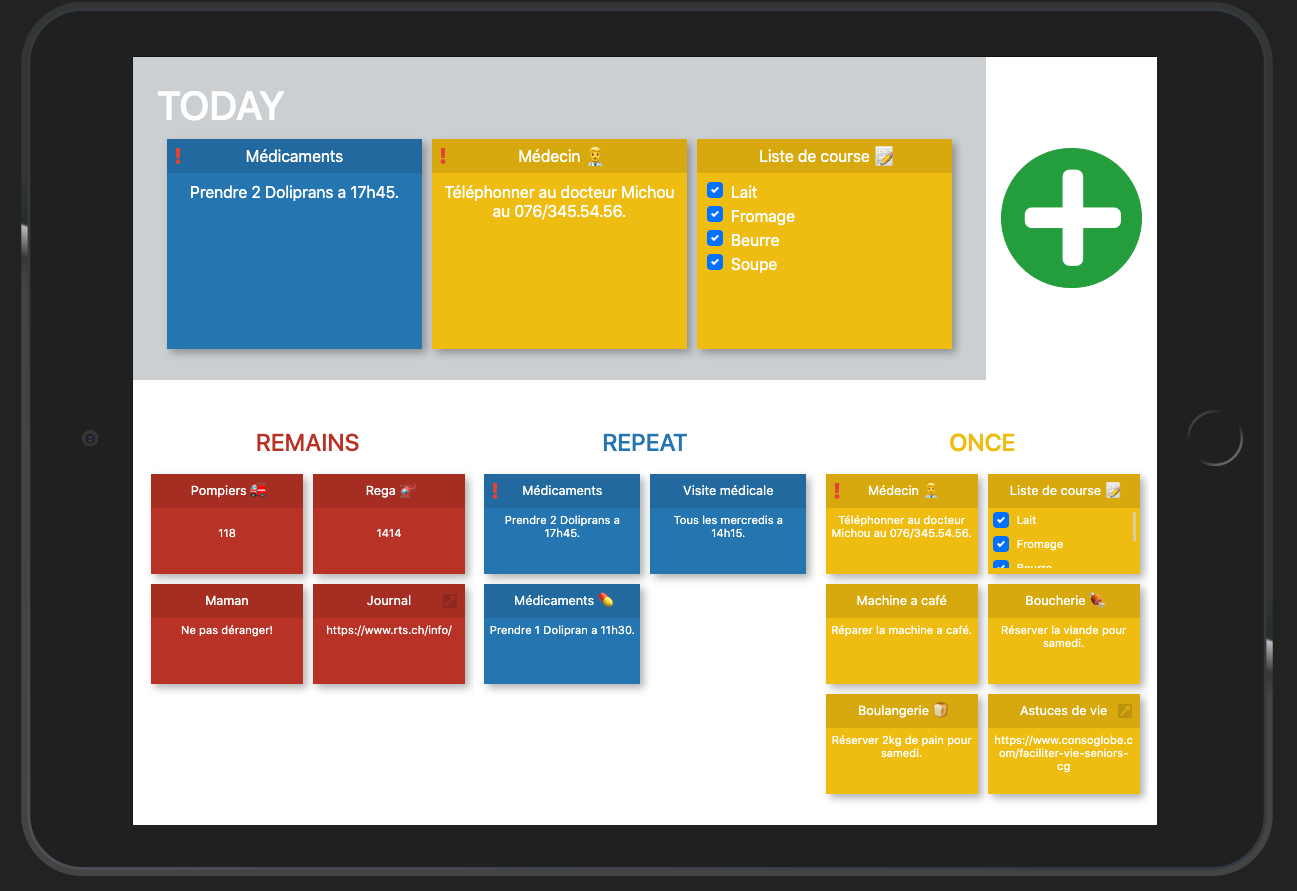
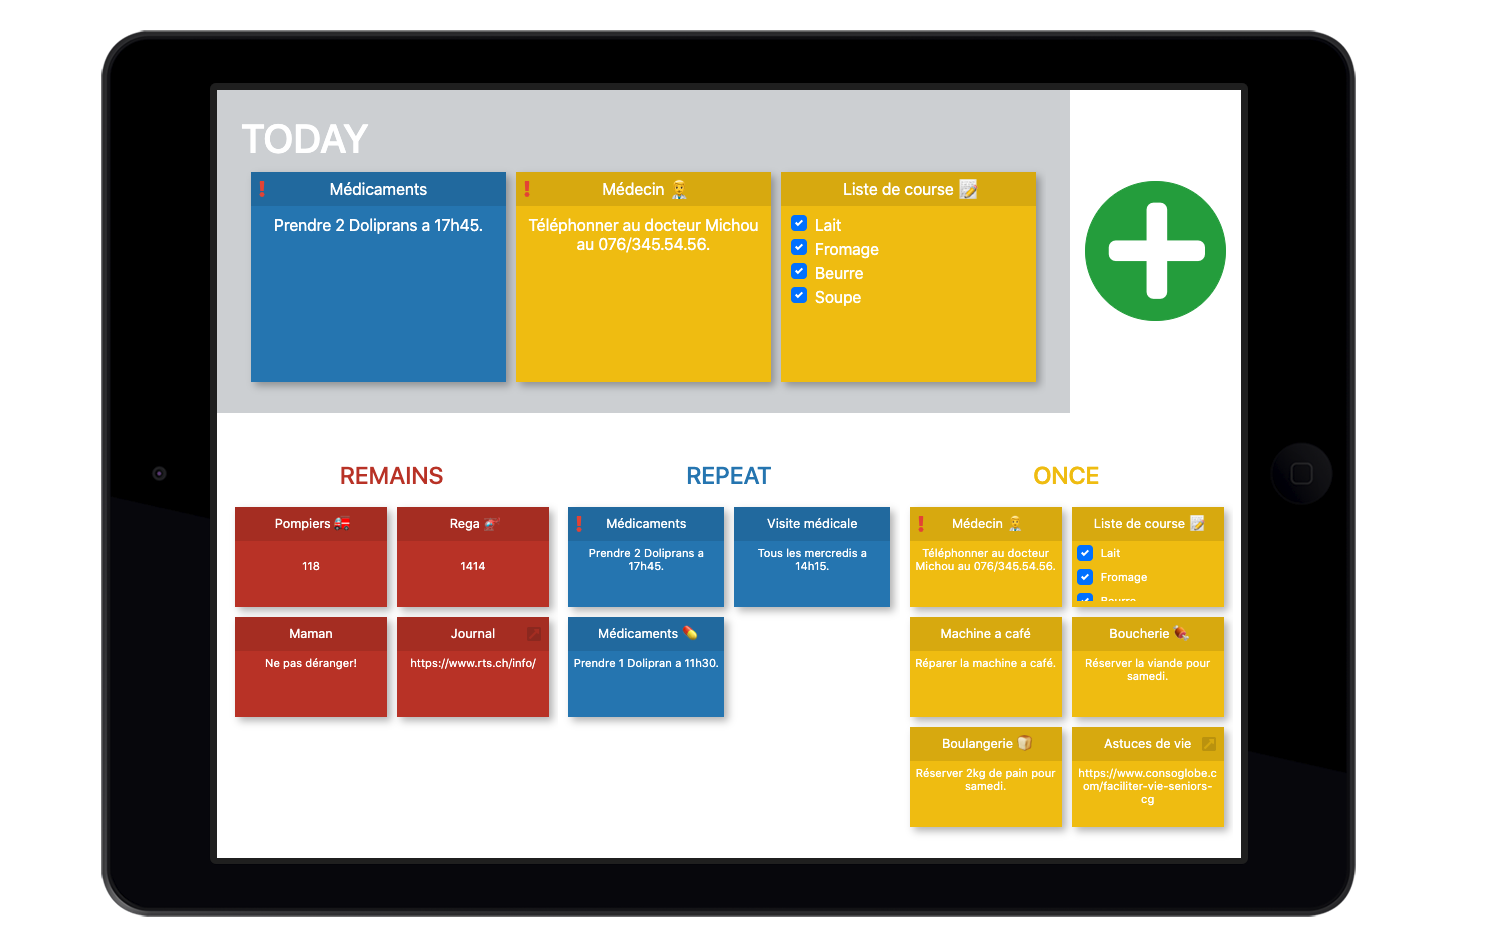
Update screenshots

diff --git a/README.md b/README.md
@@ -134,19 +134,27 @@ Lors du développement de l'application, nous avons quelques peu modifié notre 
 
 Nous sommes content de cette interface que nous avons réussis à rendre clair et intuitive. De plus la possibilité d'ajout d'emoji rend l'expérience plus sympatique.
 
+#### Ajout
+
+Au clic sur le group bouton vert d'ajout de post-it, la vue suivante est affichée. Celle-ci nous permet très facilement de choisir quel type de nouveau post-it on souhaite créer.
+
+![](2.Interfaces/6.Add.png)
+
 #### Modification
 
 Au clic sur un post-it, celui-ci s'ouvre en plein écran. Cela permet de le voir clairement et de le modifier au besoin.
 
-![](2.Interfaces/2.Edit.png)
+![](2.Interfaces/2.View.png)
 
 Un selecteur de jour et d'heure est disponnible pour les post-its de type "repeat". Un selecteur de date et d'heure est disponnible pour les post-its de type "once".
+
+![](2.Interfaces/3.Edit.png)
 
 #### Paramètres
 
 Lors d'un clic sur la roue de réglage en bas à droite, on accède au réglages du post-it. Ici encore nous avons voulu créer une interface simple et facile d'utilisation.
 
-![](2.Interfaces/3.Settings.png)
+![](2.Interfaces/4.Settings.png)
 
 Il es tpossible de changer le type de post-it, celui-ci changera alors de couleur et sera replacé sur la page principal. On peut marquer le post-it comme "important". Il est possible via le bouton rouge de supprimer ce post-it. 
 
@@ -154,7 +162,7 @@ Il es tpossible de changer le type de post-it, celui-ci changera alors de couleu
 
 Nous avons créé des post-its spéciaux permettant de sauvegarder des liens. Dès qu'un post-it contient une adresse web, un clic sur celui-ci ouvre directement le site web associé. 
 
-![Screen Recording 2020-11-11 at 14.29.55.gif](2.Interfaces/4.Link.gif)
+![Screen Recording 2020-11-11 at 14.29.55.gif](2.Interfaces/5.Link.gif)
 
 Pour en modifier le contenu, il alors possible de cliquer sur la roue de réglage en bas à droite, le comportement de modification est alors identique à tout autre post-it. La roue de réglage disparait automatiquement après 10 secondes.
 
@@ -162,7 +170,7 @@ Pour en modifier le contenu, il alors possible de cliquer sur la roue de réglag
 
 Nous avons implémenté un système détectant l'orientation du dispositif, celui-ci force l'utilisateur à utiliser notre application en mode paysage. Si l'utilisateur tourne son iPad en mode portrait, l'écran suivant est affiché.
 
-![](2.Interfaces/5.Rotate.png)
+![](2.Interfaces/7.Rotate.png)
 
 ### Améliorations possibles
 
